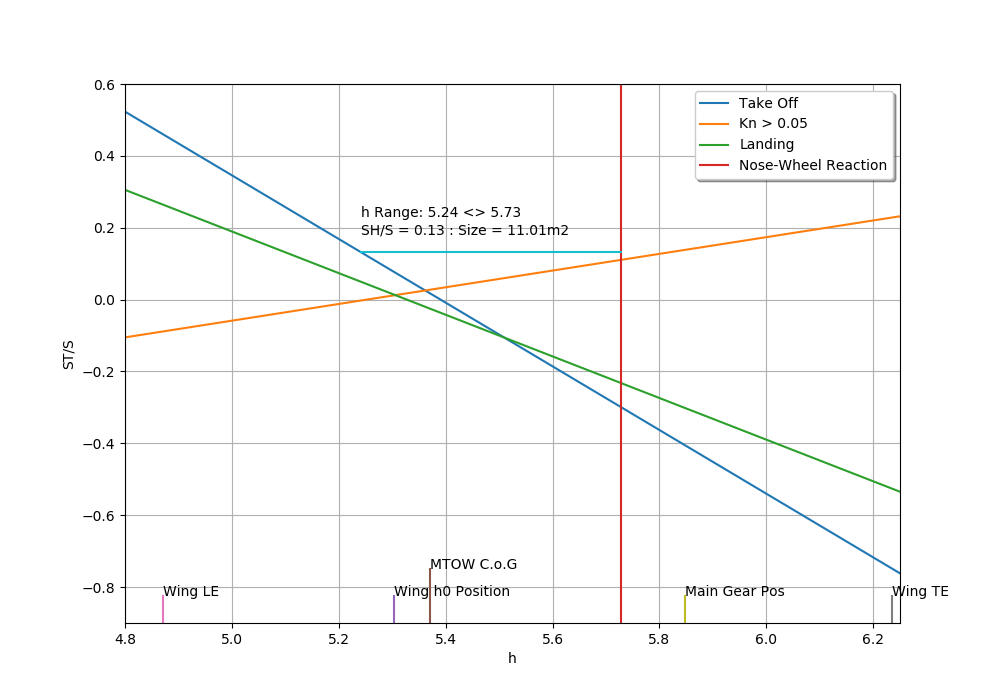
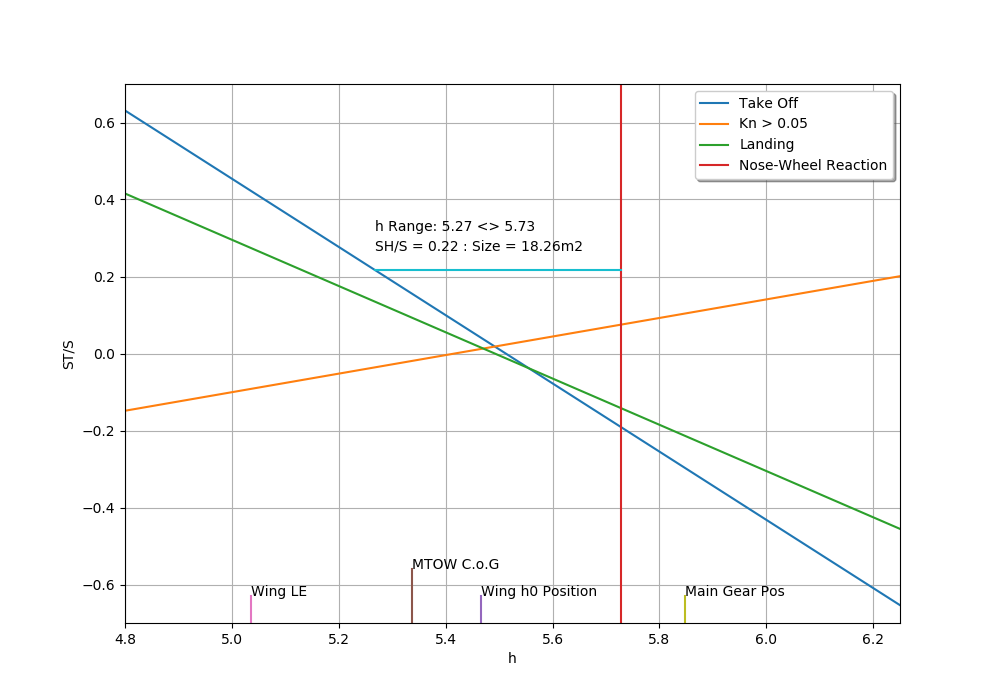
Link some values and find new CG range

diff --git a/scissorplot.py b/scissorplot.py
@@ -65,7 +65,7 @@ h0 = cad_file['Interface']['B54'].value
 print("h0 = " + str(h0))
 mtow_pos_m = cad_file['Interface']['F16'].value
 mtow_pos = mtow_pos_m/c_bar  # From Mass CG File
-lvtp_cad_value = cad_params["M162"].value
+lvtp_cad_value = cad_file['Interface']['B30'].value
 engine_vcg_dist = cad_file['Interface']['F15'].value
 
 
@@ -261,7 +261,7 @@ def plotit(r1, r2):
     the other via known fwd and aft positions"""
     # Known Delta h range
     #size = size_finder_delta(x_h, takeOffRotation(x_h), [kn(x_h)], [noseWheel()], 0.4)
-    size = size_finder_range(x_h, takeOffRotation(x_h), [kn(x_h)], [noseWheel()], h_finder_from_mac(0.19), h_finder_from_mac(0.49))
+    size = size_finder_range(x_h, takeOffRotation(x_h), [kn(x_h)], [noseWheel()], h_finder_from_mac(0.05), h_finder_from_mac(0.39))
     v_bar(size[2])
     plt.plot([size[0], size[1]], [size[2], size[2]])
     plt.annotate("SH/S = " + str(format(size[2], '.2f')) + " : Size = " + str(format(size[2]*params['Sarea'], '.2f')) + "m2", [size[0], size[2]+0.05])
